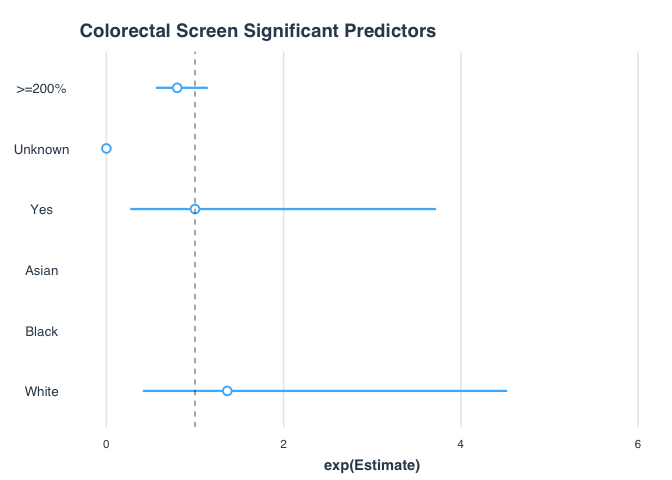
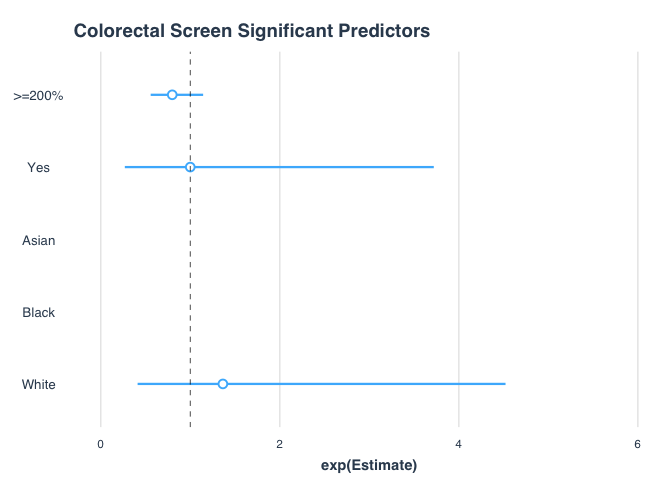
plot

diff --git a/colorectalscreen.md b/colorectalscreen.md
@@ -2344,15 +2344,12 @@ coef_new = stringr::str_remove(coef_new, "^[^_]*lcond_chronic_cat[)]")
 names(coef) <- coef_new
 coef1 = coef[-1] # remove intercept 
 coef2 = coef1[-7] # remove coefficient for Usual Care = Other
-coef3a = coef2[-12] 
-coef3b = coef2[12] # pull out immigration status because of the intercept magnitude
+coef3c = coef2[-2] # remove income = unknown
 
 # plot ORs with CIs
-jtools::plot_summs(col2_fit2, coefs = coef3a, exp = TRUE) +
+jtools::plot_summs(col2_fit2, coefs = coef3c, exp = TRUE) +
   labs(title = "Colorectal Screen Significant Predictors") +
   scale_x_continuous(limits = c(0, 6), breaks = c(0, 2, 4, 6))
 ```
 
 ![](colorectalscreen_files/figure-gfm/unnamed-chunk-10-1.png)<!-- -->
-
-\`\`\`
